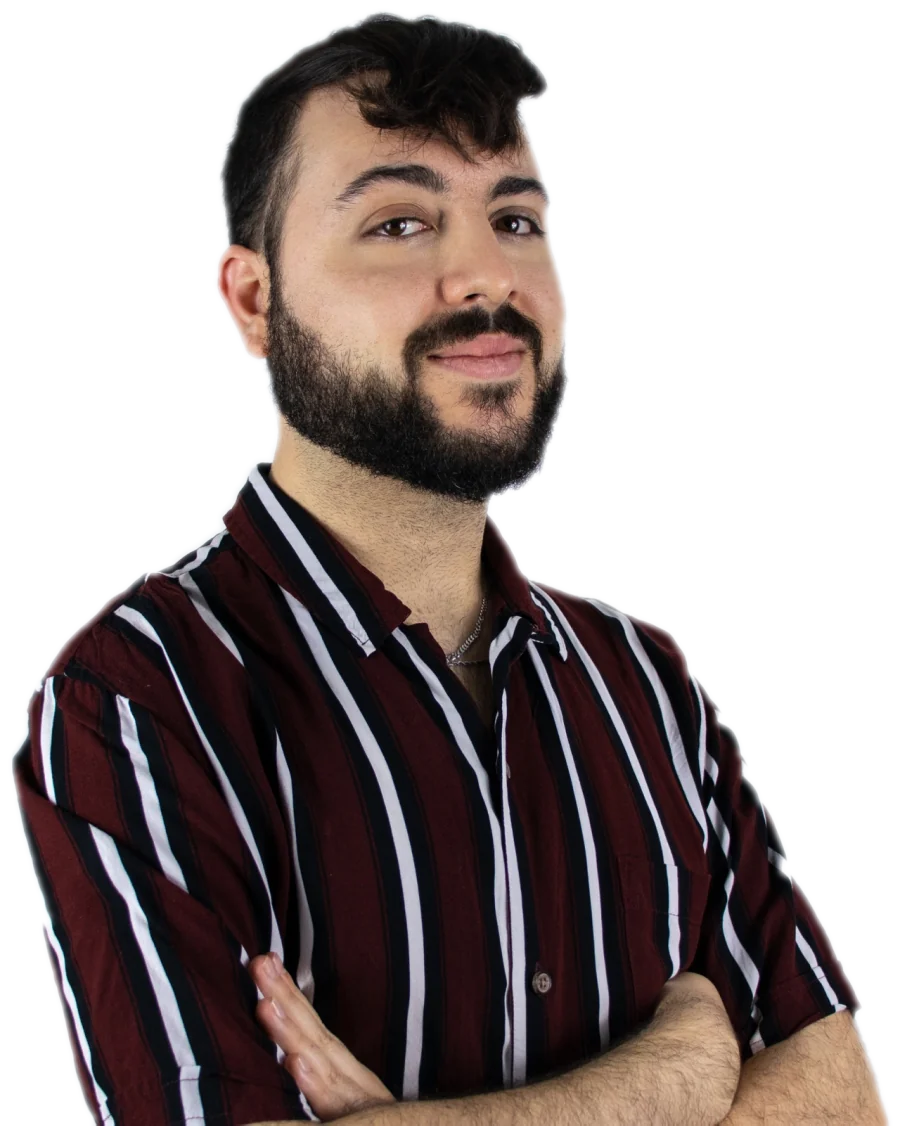
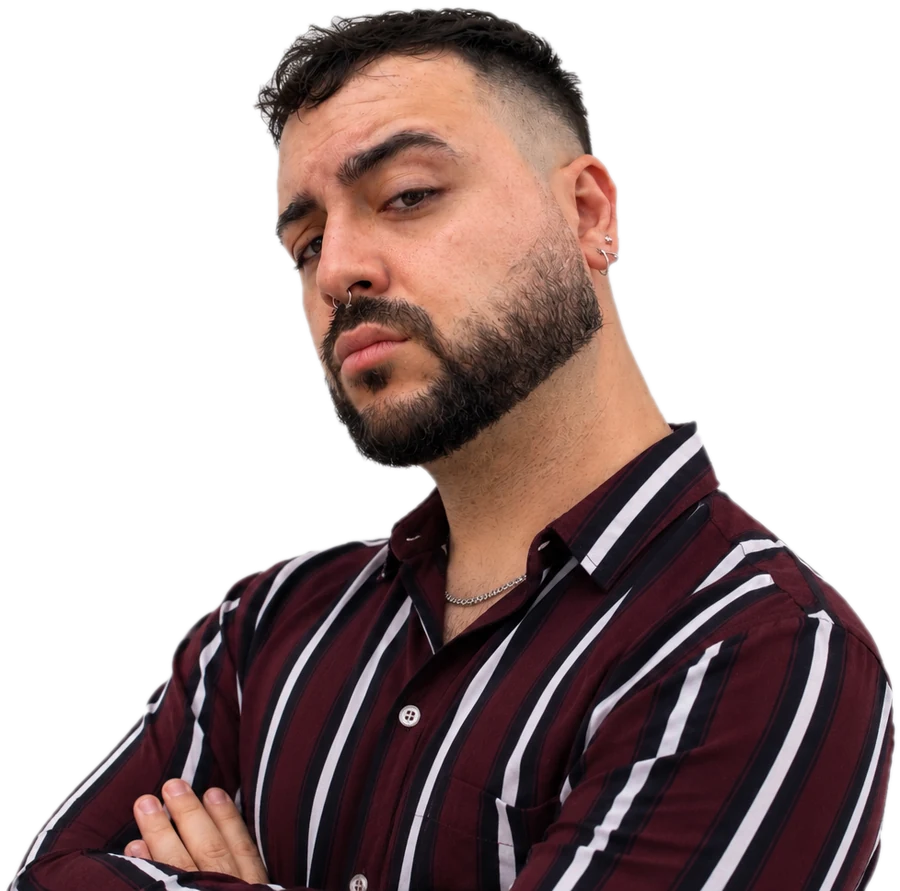
Nueva foto de portada
Claude-Session: https://claude.ai/code/session_01YMqBSMQEni2xKNp9J5W1DT

diff --git a/index.html b/index.html
@@ -143,7 +143,7 @@ footer{padding-bottom:max(36px,env(safe-area-inset-bottom))!important}
 <span class="w-br" aria-hidden="true" style="right:0;bottom:8px;border-width:0 2px 2px 0"></span>
 <div class="mono" aria-hidden="true" style="position:absolute;z-index:4;left:40px;top:14px;display:flex;align-items:center;gap:8px;font-size:12px;font-weight:700;letter-spacing:.1em"><span class="w-rec" style="width:10px;height:10px;border-radius:50%;background:#FF5A4D;display:inline-block"></span>REC</div>
 <div class="w-rise" aria-hidden="true" style="position:absolute;left:0;right:0;top:clamp(44px,6.4vw,100px);text-align:center;font-family:'Anton',Impact,sans-serif;font-size:clamp(60px,20.5vw,300px);line-height:.9;letter-spacing:.01em;color:#F6EFE2;text-transform:uppercase">Portfolio</div>
-<img class="w-rise3" src="media/carles-portada.webp" width="900" height="1126" fetchpriority="high" alt="Carles Juan Carbonell, periodista, con los brazos cruzados" style="position:relative;z-index:2;display:block;height:clamp(420px,52vw,730px);width:auto;max-width:100%;object-fit:contain;-webkit-mask-image:linear-gradient(to bottom,#000 70%,transparent 100%);mask-image:linear-gradient(to bottom,#000 70%,transparent 100%)">
+<img class="w-rise3" src="media/carles-portada.webp" width="900" height="891" fetchpriority="high" alt="Carles Juan Carbonell, periodista, con los brazos cruzados" style="position:relative;z-index:2;display:block;height:clamp(420px,52vw,730px);width:auto;max-width:100%;object-fit:contain;-webkit-mask-image:linear-gradient(to bottom,#000 70%,transparent 100%);mask-image:linear-gradient(to bottom,#000 70%,transparent 100%)">
 <h1 class="w-rise3" style="position:absolute;z-index:3;left:0;right:0;bottom:clamp(14px,2.6vw,36px);margin:0;text-align:center;white-space:nowrap;font-family:'Anton',Impact,sans-serif;font-weight:400;font-size:clamp(30px,8.6vw,128px);line-height:1;letter-spacing:.005em;text-transform:uppercase;color:#F6EFE2;text-shadow:0 4px 28px rgba(10,18,38,.75),0 1px 2px rgba(10,18,38,.6)">Carles Juan Carbonell</h1>
 </div>
 
